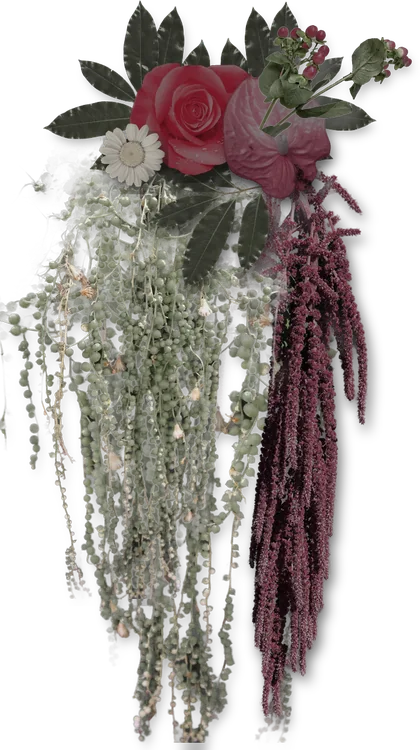
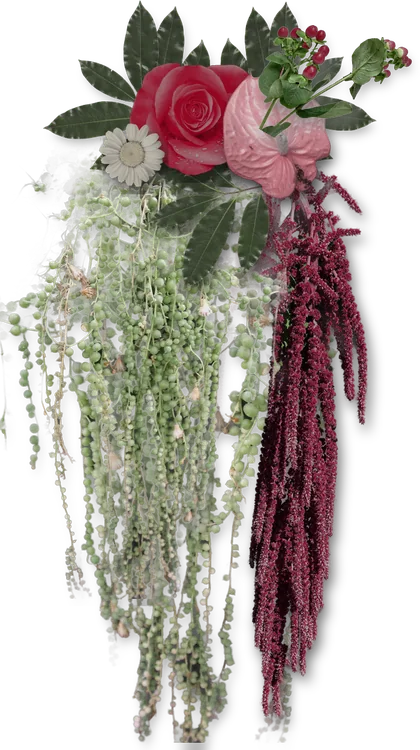
Beludru: warna bunga lebih segar, bunga kanan amplop tidak menutupi teks

diff --git a/beludru.html b/beludru.html
@@ -119,7 +119,7 @@ html.locked,html.locked body{overflow:hidden;height:100%;overscroll-behavior:non
 .doily .q small{font-size:.85em;letter-spacing:.14em;color:#6b5a4c}
 .doily .tassel{position:absolute;left:50%;bottom:calc(var(--w) * -.2);width:calc(var(--w) * .1);margin-left:calc(var(--w) * -.05);transform-origin:50% 0;animation:sway 3.5s ease-in-out infinite}
 .env .fl1{left:calc(var(--w) * -.19);top:calc(var(--w) * -.1);width:calc(var(--w) * .46);z-index:6}
-.env .fl2{right:calc(var(--w) * -.18);top:calc(var(--w) * .33);width:calc(var(--w) * .4);z-index:6}
+.env .fl2{right:calc(var(--w) * -.17);top:calc(var(--w) * .2);width:calc(var(--w) * .36);z-index:6}
 .cv-hint{position:absolute;left:-10%;right:-10%;top:calc(var(--w) * 1.5);display:grid;gap:calc(var(--w) * .035);justify-items:center;transition:opacity .6s;animation:fadeUp 1.2s 1s var(--ease) backwards}
 .cv-hint .click{font-size:calc(var(--w) * .04);letter-spacing:.24em;font-weight:500}
 .cv-hint .guest{font-size:calc(var(--w) * .042);line-height:1.35;color:#d9d2c3}
